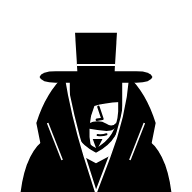
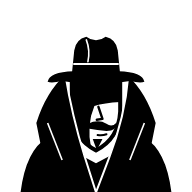
Give the spy a fedora instead of a top hat
Claude-Session: https://claude.ai/code/session_012KgB2T6A61Y1AD2Dqy3ECV

Changed region(s): [[0.1875, 0.1562, 0.8125, 0.4375], [0.3438, 0.4062, 0.375, 0.4375]]

diff --git a/index.html b/index.html
@@ -436,10 +436,11 @@
     <path d="M140 92 Q136 142 116 194 L100 236" stroke="#fff" stroke-width="2.5" fill="none" stroke-linejoin="round"/>
     <path d="M40 150 L58 196" stroke="#fff" stroke-width="2" fill="none"/>
     <path d="M160 150 L142 196" stroke="#fff" stroke-width="2" fill="none"/>
-    <!-- smaller top hat -->
-    <path d="M74 38 L126 38 L123 88 L77 88 Z" fill="#000"/>
-    <path d="M76.3 78 L123.7 78" stroke="#fff" stroke-width="2.5"/>
-    <path d="M30 93 Q32 86 50 86 L150 86 Q168 86 170 93 Q168 100 150 100 L50 100 Q32 100 30 93 Z" fill="#000"/>
+    <!-- fedora -->
+    <path d="M70 90 L73 60 Q75 46 88 43 Q100 52 112 43 Q125 46 127 60 L130 90 Z" fill="#000"/>
+    <path d="M88 47 Q93 60 90 74" stroke="#fff" stroke-width="2" fill="none" stroke-linecap="round"/>
+    <path d="M71.8 77 L128.2 77" stroke="#fff" stroke-width="2.5"/>
+    <path d="M40 99 Q42 87 72 86 L128 86 Q158 87 160 99 Q155 101 142 98 Q100 106 58 98 Q45 101 40 99 Z" fill="#000"/>
   </symbol>
 </svg>
 

diff --git a/sw.js b/sw.js
@@ -1,6 +1,6 @@
 // Spies service worker: makes the game installable and lets pass & play work offline.
 // Online lobbies (/api) always go straight to the network.
-const CACHE = 'spies-v3';
+const CACHE = 'spies-v4';
 const CORE = ['/', '/manifest.webmanifest', '/fonts/bangers.woff2', '/fonts/special-elite.woff2', '/icons/icon-192.png'];
 
 self.addEventListener('install', e => {
